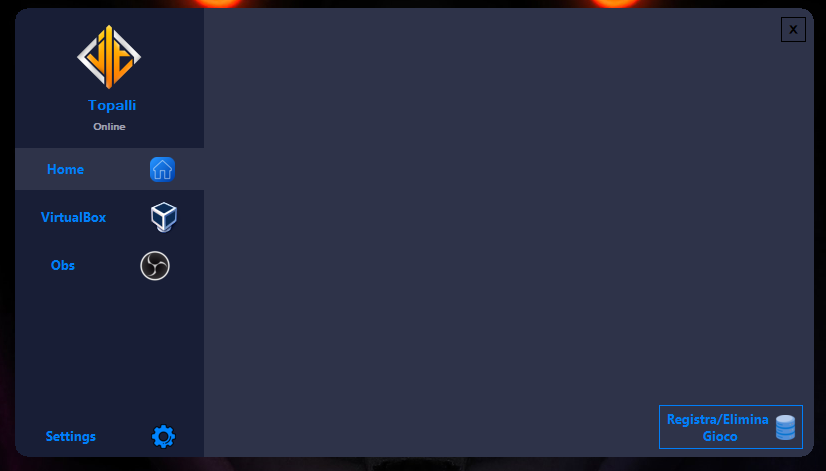
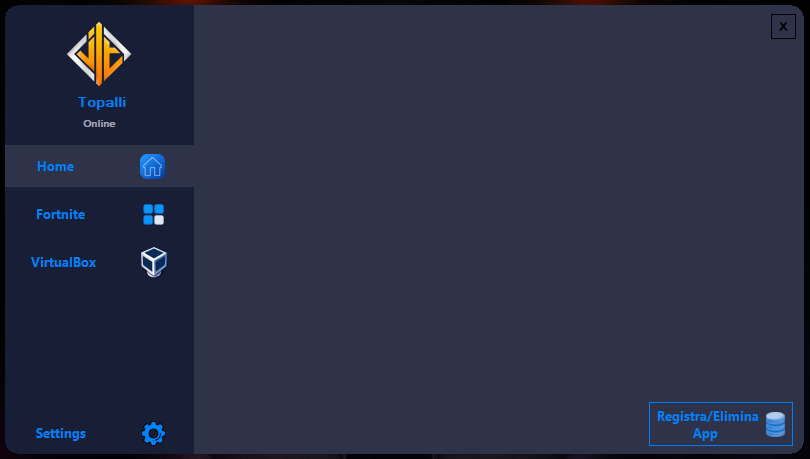
v1.1.6.0

diff --git a/RoyaleLauncher/FrmMain.Designer.cs b/RoyaleLauncher/FrmMain.Designer.cs
@@ -406,7 +406,7 @@
             this.BtnRegistraGioco.Name = "BtnRegistraGioco";
             this.BtnRegistraGioco.Size = new System.Drawing.Size(144, 44);
             this.BtnRegistraGioco.TabIndex = 10;
-            this.BtnRegistraGioco.Text = "Registra/Elimina \r\n         APP";
+            this.BtnRegistraGioco.Text = "Registra/Elimina \r\n         App";
             this.BtnRegistraGioco.TextAlign = System.Drawing.ContentAlignment.MiddleLeft;
             this.BtnRegistraGioco.UseVisualStyleBackColor = true;
             this.BtnRegistraGioco.Click += new System.EventHandler(this.BtnRegistraGioco_Click);
